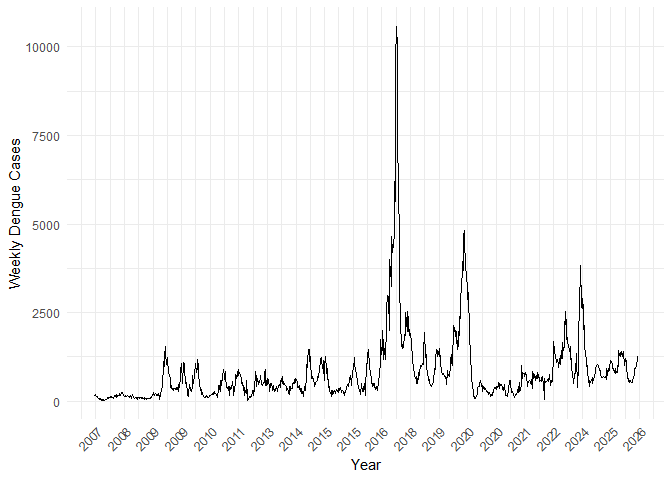
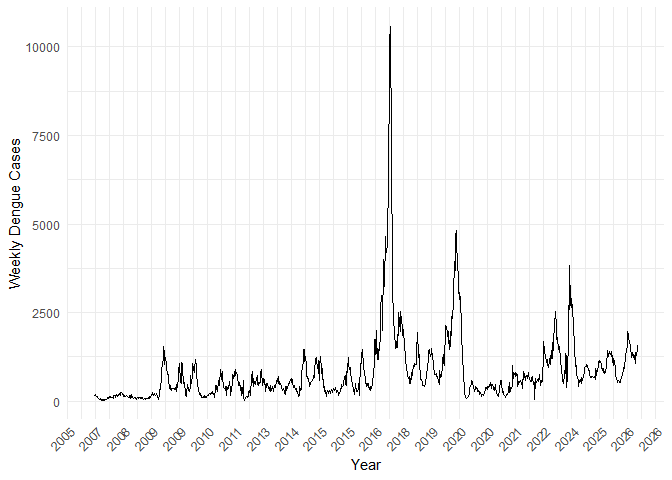
updated

diff --git a/README.md b/README.md
@@ -70,14 +70,14 @@ head(srilanka_weekly_data)
 #> 6  2006    52 12/23/2006 12/29/2006 NuwaraEliya     1
 tail(srilanka_weekly_data)
 #> # A tibble: 6 × 6
-#>    year  week start.date end.date   district    cases
-#>   <dbl> <dbl> <chr>      <chr>      <chr>       <dbl>
-#> 1  2025    52 12/13/2025 12/19/2025 Polonnaruwa    14
-#> 2  2025    52 12/13/2025 12/19/2025 Badulla        25
-#> 3  2025    52 12/13/2025 12/19/2025 Monaragala     24
-#> 4  2025    52 12/13/2025 12/19/2025 Ratnapura      60
-#> 5  2025    52 12/13/2025 12/19/2025 Kegalle        37
-#> 6  2025    52 12/13/2025 12/19/2025 Kalmune         8
+#>    year  week start.date end.date  district    cases
+#>   <dbl> <dbl> <chr>      <chr>     <chr>       <dbl>
+#> 1  2026    20 5/11/2026  5/17/2026 Polonnaruwa    13
+#> 2  2026    20 5/11/2026  5/17/2026 Badulla        20
+#> 3  2026    20 5/11/2026  5/17/2026 Monaragala     19
+#> 4  2026    20 5/11/2026  5/17/2026 Ratnapura     168
+#> 5  2026    20 5/11/2026  5/17/2026 Kegalle        73
+#> 6  2026    20 5/11/2026  5/17/2026 Kalmune        24
 ```
 
 ``` r